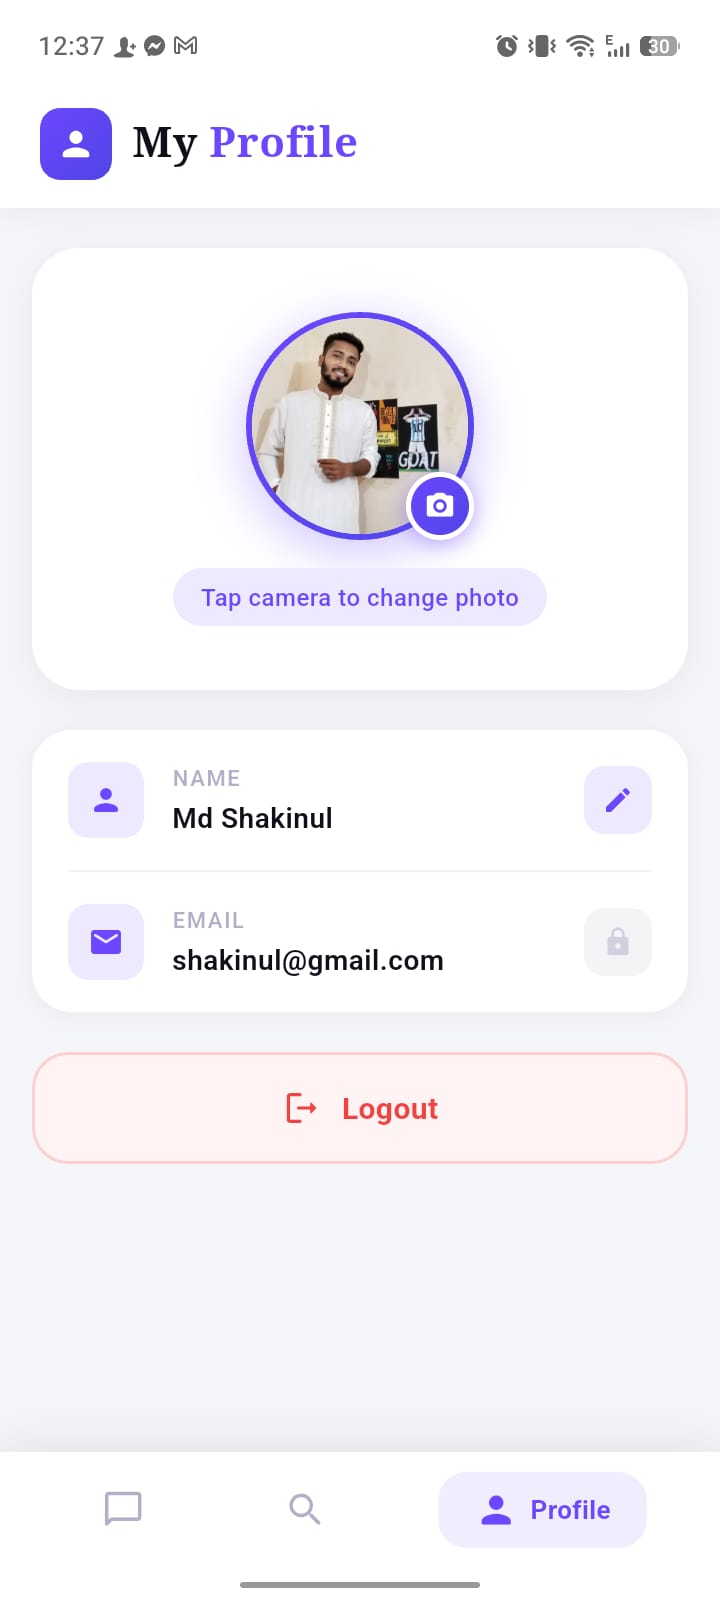
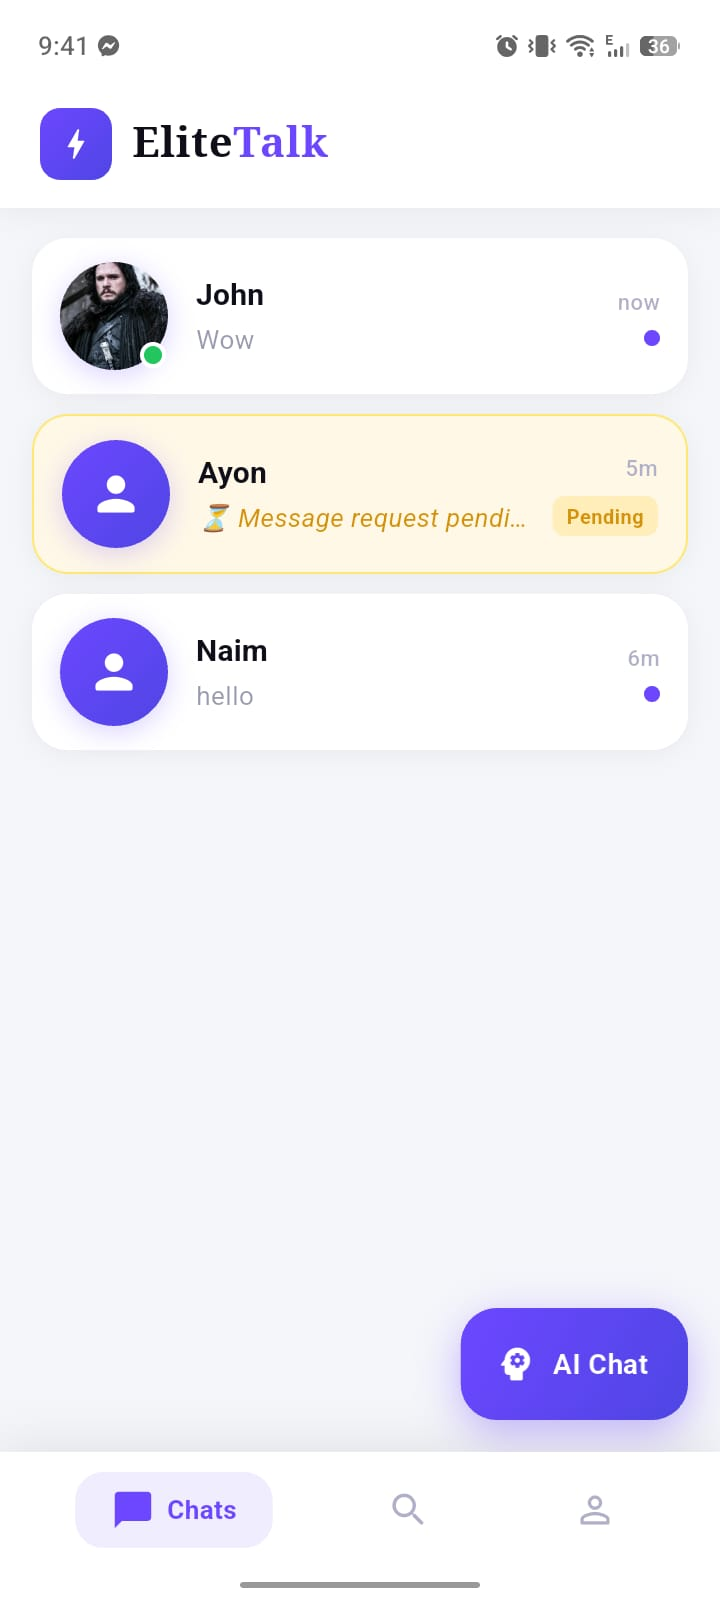
ss added

diff --git a/index.html b/index.html
@@ -776,9 +776,30 @@
                          onerror="this.onerror=null; this.src='elitetalk_1.png';"
                          alt="EliteTalk Screenshot">
 
-                    <img src="elitetalk_2.jpg"
+                    <img src="elitetalk_2.jpeg"
                          onerror="this.onerror=null; this.src='elitetalk_2.png';"
                          alt="EliteTalk Screenshot">
+
+                         <img src="elitetalk_3.jpeg"
+                         onerror="this.onerror=null; this.src='elitetalk_3.png';"
+                         alt="EliteTalk Screenshot">
+
+                    <img src="elitetalk_4.jpeg"
+                         onerror="this.onerror=null; this.src='elitetalk_4.png';"
+                         alt="EliteTalk Screenshot">
+
+                         <img src="elitetalk_5.jpeg"
+                         onerror="this.onerror=null; this.src='elitetalk_5.png';"
+                         alt="EliteTalk Screenshot">
+
+                    <img src="elitetalk_6.jpeg"
+                         onerror="this.onerror=null; this.src='elitetalk_6.png';"
+                         alt="EliteTalk Screenshot">
+
+                         <img src="elitetalk_7.jpeg"
+                         onerror="this.onerror=null; this.src='elitetalk_7.png';"
+                         alt="EliteTalk Screenshot">
+
 
                 </div>
 
@@ -945,6 +966,30 @@
                          onerror="this.onerror=null; this.src='expense_2.png';"
                          alt="AI Expense Analyzer Screenshot">
 
+                         <img src="expense_3.jpg"
+                         onerror="this.onerror=null; this.src='expense_3.png';"
+                         alt="AI Expense Analyzer Screenshot">
+
+                    <img src="expense_4.jpg"
+                         onerror="this.onerror=null; this.src='expense_4.png';"
+                         alt="AI Expense Analyzer Screenshot">
+
+                         <img src="expense_5.jpg"
+                         onerror="this.onerror=null; this.src='expense_5.png';"
+                         alt="AI Expense Analyzer Screenshot">
+
+                    <img src="expense_6.jpg"
+                         onerror="this.onerror=null; this.src='expense_6.png';"
+                         alt="AI Expense Analyzer Screenshot">
+
+                         <img src="expense_7.jpg"
+                         onerror="this.onerror=null; this.src='expense_7.png';"
+                         alt="AI Expense Analyzer Screenshot">
+
+                    <img src="expense_8.jpg"
+                         onerror="this.onerror=null; this.src='expense_8.png';"
+                         alt="AI Expense Analyzer Screenshot">
+
                 </div>
 
 
@@ -1108,12 +1153,36 @@
 
                 <div class="project-slider">
 
-                    <img src="dokan_1.jpg"
+                    <img src="dokan_1.jpeg"
                          onerror="this.onerror=null; this.src='dokan_1.png';"
                          alt="Dokaner Hisab Screenshot">
 
-                    <img src="dokan_2.jpg"
+                    <img src="dokan_2.jpeg"
                          onerror="this.onerror=null; this.src='dokan_2.png';"
+                         alt="Dokaner Hisab Screenshot">
+
+                          <img src="dokan_3.jpeg"
+                         onerror="this.onerror=null; this.src='dokan_3.png';"
+                         alt="Dokaner Hisab Screenshot">
+
+                          <img src="dokan_4.jpeg"
+                         onerror="this.onerror=null; this.src='dokan_4.png';"
+                         alt="Dokaner Hisab Screenshot">
+
+                          <img src="dokan_5.jpeg"
+                         onerror="this.onerror=null; this.src='dokan_5.png';"
+                         alt="Dokaner Hisab Screenshot">
+
+                          <img src="dokan_6.jpeg"
+                         onerror="this.onerror=null; this.src='dokan_6.png';"
+                         alt="Dokaner Hisab Screenshot">
+
+                          <img src="dokan_7.jpeg"
+                         onerror="this.onerror=null; this.src='dokan_7.png';"
+                         alt="Dokaner Hisab Screenshot">
+
+                          <img src="dokan_8.jpeg"
+                         onerror="this.onerror=null; this.src='dokan_8.png';"
                          alt="Dokaner Hisab Screenshot">
 
                 </div>
@@ -1270,12 +1339,48 @@
 
                 <div class="project-slider">
 
-                    <img src="saas_1.jpg"
+                    <img src="saas_1.jpeg"
                          onerror="this.onerror=null; this.src='saas_1.png';"
                          alt="Contactless Dining SaaS Screenshot">
 
-                    <img src="saas_2.jpg"
+                    <img src="saas_2.jpeg"
                          onerror="this.onerror=null; this.src='saas_2.png';"
+                         alt="Contactless Dining SaaS Screenshot">
+
+                         <img src="saas_3.jpeg"
+                         onerror="this.onerror=null; this.src='saas_3.png';"
+                         alt="Contactless Dining SaaS Screenshot">
+
+                    <img src="saas_4.jpeg"
+                         onerror="this.onerror=null; this.src='saas_4.png';"
+                         alt="Contactless Dining SaaS Screenshot">
+
+                         <img src="saas_5.jpeg"
+                         onerror="this.onerror=null; this.src='saas_5.png';"
+                         alt="Contactless Dining SaaS Screenshot">
+
+                    <img src="saas_6.jpeg"
+                         onerror="this.onerror=null; this.src='saas_6.png';"
+                         alt="Contactless Dining SaaS Screenshot">
+
+                         <img src="saas_7.jpeg"
+                         onerror="this.onerror=null; this.src='saas_7.png';"
+                         alt="Contactless Dining SaaS Screenshot">
+
+                    <img src="saas_8.jpeg"
+                         onerror="this.onerror=null; this.src='saas_8.png';"
+                         alt="Contactless Dining SaaS Screenshot">
+
+                         <img src="saas_9.jpeg"
+                         onerror="this.onerror=null; this.src='saas_9.png';"
+                         alt="Contactless Dining SaaS Screenshot">
+
+                    <img src="saas_10.jpeg"
+                         onerror="this.onerror=null; this.src='saas_10.png';"
+                         alt="Contactless Dining SaaS Screenshot">
+
+                         <img src="saas_11.jpeg"
+                         onerror="this.onerror=null; this.src='saas_11.png';"
                          alt="Contactless Dining SaaS Screenshot">
 
                 </div>
